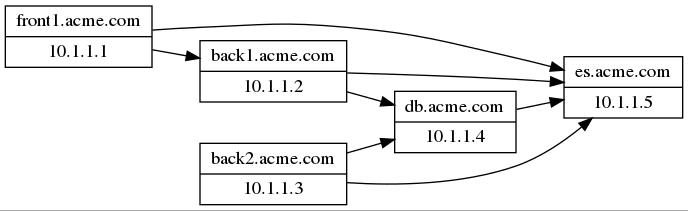
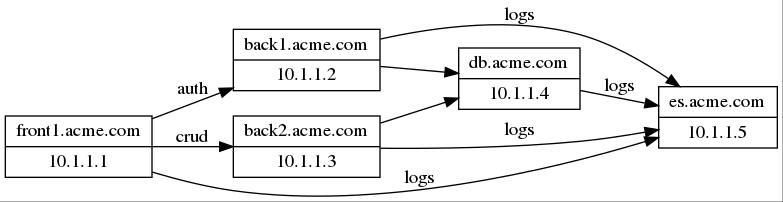
jpg output : labeled edges

diff --git a/internal/output/dotFormatter.go b/internal/output/dotFormatter.go
@@ -21,8 +21,9 @@ type DotGraph struct {
 }
 
 type DotGraphDep struct {
-	From string
-	To   string
+	From  string
+	To    string
+	Label string
 }
 
 type DotFormatter struct{}
@@ -81,10 +82,10 @@ func newDotGraph(s []model.Server) DotGraph {
 	for _, curS := range s {
 		for _, curD := range curS.Dependencies {
 			if ref, found := identifierToHost[curD.Resource]; found {
-				dg.Dependencies = append(dg.Dependencies, DotGraphDep{curS.Hostname, ref})
+				dg.Dependencies = append(dg.Dependencies, DotGraphDep{curS.Hostname, ref, curD.Label})
 			} else {
 				dg.ExternalServers = append(dg.ExternalServers, curD.Resource)
-				dg.Dependencies = append(dg.Dependencies, DotGraphDep{curS.Hostname, curD.Resource})
+				dg.Dependencies = append(dg.Dependencies, DotGraphDep{curS.Hostname, curD.Resource, curD.Label})
 			}
 		}
 	}

diff --git a/internal/output/dotFormatter_test.go b/internal/output/dotFormatter_test.go
@@ -1,12 +1,13 @@
 package output
 
 import (
-	"github.com/barasher/dep-carto/internal/model"
-	"github.com/stretchr/testify/assert"
 	"net/http"
 	"net/http/httptest"
 	"strings"
 	"testing"
+
+	"github.com/barasher/dep-carto/internal/model"
+	"github.com/stretchr/testify/assert"
 )
 
 func TestBuildDotGraph(t *testing.T) {
@@ -20,9 +21,9 @@ func TestBuildDotGraph(t *testing.T) {
 	assert.ElementsMatch(t, expServ, dg.Servers)
 	assert.ElementsMatch(t, []string{"s.otherdomain"}, dg.ExternalServers)
 	expDep := []DotGraphDep{
-		{"s1.domain", "s2.domain"},
-		{"s1.domain", "s.otherdomain"},
-		{"s1.domain", "s3.domain"},
+		{"s1.domain", "s2.domain", "Lip2"},
+		{"s1.domain", "s.otherdomain", "Ls.otherdomain"},
+		{"s1.domain", "s3.domain", "Ls3.domain"},
 	}
 	assert.ElementsMatch(t, expDep, dg.Dependencies)
 }

diff --git a/internal/output/common_test.go b/internal/output/common_test.go
@@ -10,8 +10,8 @@ func generateServers() []model.Server {
 		Key:      "a",
 		IPs:      []string{"ip1a", "ip1b"},
 		Dependencies: []model.Dependency{
-			{Resource: "ip2"},
-			{Resource: "s.otherdomain"},
+			{Resource: "ip2", Label: "Lip2"},
+			{Resource: "s.otherdomain", Label: "Ls.otherdomain"},
 		},
 	}
 	s1b := model.Server{
@@ -19,7 +19,7 @@ func generateServers() []model.Server {
 		Key:      "b",
 		IPs:      []string{"ip1a", "ip1b"},
 		Dependencies: []model.Dependency{
-			{Resource: "s3.domain"},
+			{Resource: "s3.domain", Label: "Ls3.domain"},
 		},
 	}
 	s2 := model.Server{
